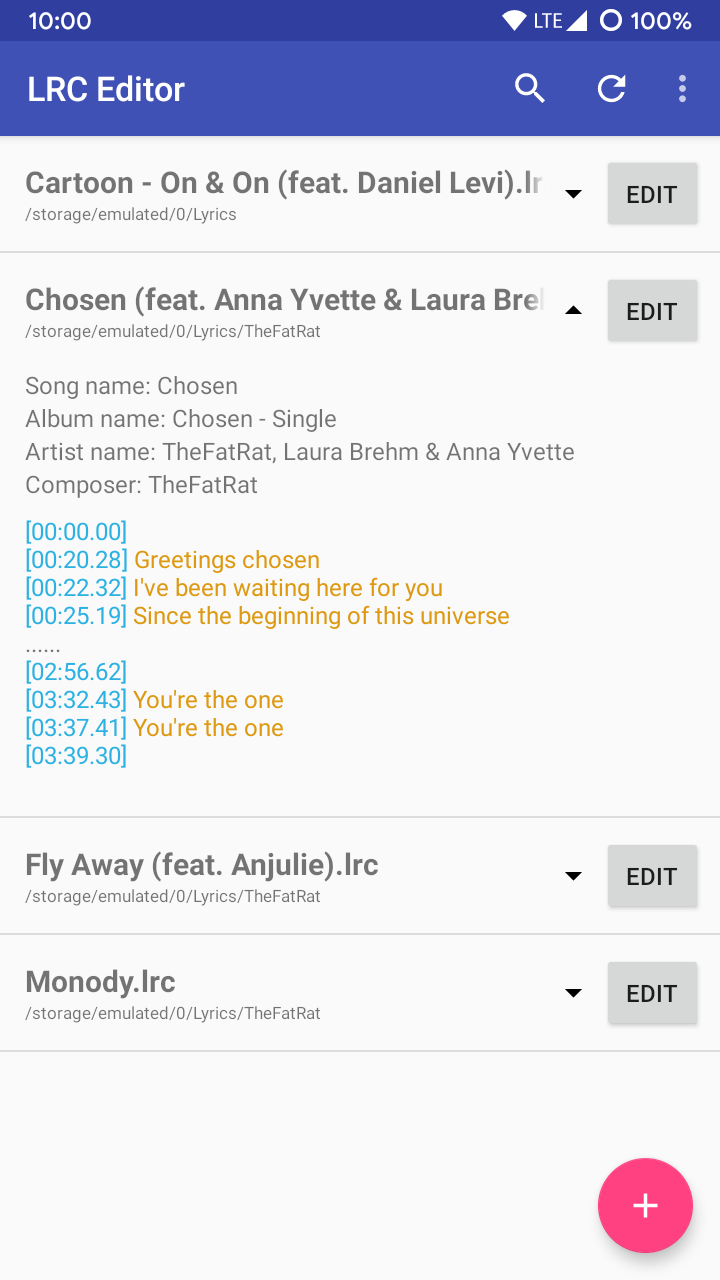
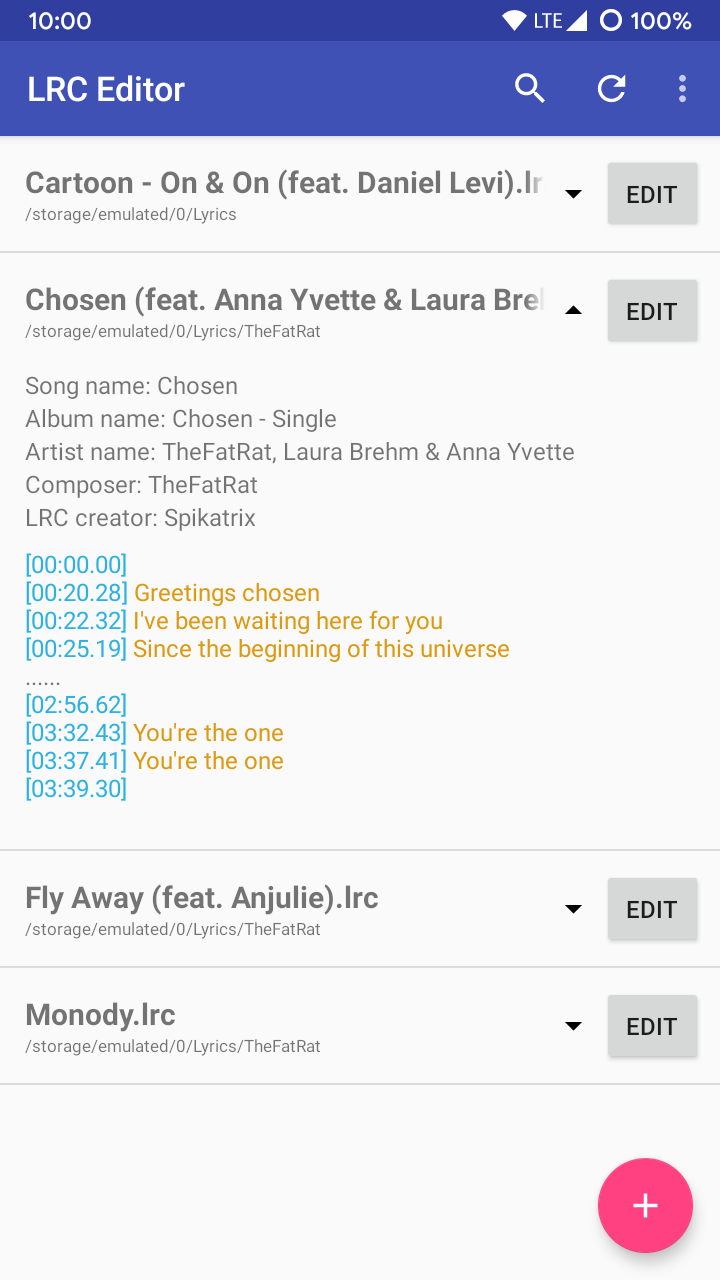
Version 3.2.4 (Timestamp step setting, LRC creator metadata, crash fix)

Changed region(s): [[0.0306, 0.375, 0.7028, 0.625], [0.0306, 0.6562, 0.5194, 0.8438], [0.7944, 0.6562, 0.9778, 0.8438]]

diff --git a/app/src/main/java/com/cg/lrceditor/SettingsActivity.java b/app/src/main/java/com/cg/lrceditor/SettingsActivity.java
@@ -164,6 +164,9 @@ public class SettingsActivity extends AppCompatActivity {
 				String.format(Locale.getDefault(), "%d ms", preferences.getInt(Constants.TIMESTAMP_STEP_AMOUNT_PREFERENCE, 100)));
 
 		ImageButton increase = view.findViewById(R.id.increase_button);
+		if (isDarkTheme) {
+			increase.setImageDrawable(getDrawable(R.drawable.ic_add_light));
+		}
 		increase.setOnClickListener(view1 -> {
 			String timestampStepVal = timestamp.getText().toString();
 			int value = Integer.parseInt(timestampStepVal.substring(0, timestampStepVal.length() - 3));
@@ -175,6 +178,9 @@ public class SettingsActivity extends AppCompatActivity {
 		});
 
 		ImageButton decrease = view.findViewById(R.id.decrease_button);
+		if (isDarkTheme) {
+			decrease.setImageDrawable(getDrawable(R.drawable.ic_minus_light));
+		}
 		decrease.setOnClickListener(view1 -> {
 			String timestampStepVal = timestamp.getText().toString();
 			int value = Integer.parseInt(timestampStepVal.substring(0, timestampStepVal.length() - 3));

diff --git a/README.md b/README.md
@@ -1,4 +1,4 @@
-# LRC Editor &nbsp; [![License: GPL v3](https://img.shields.io/badge/License-GPL%20v3-blue.svg)](https://www.gnu.org/licenses/gpl-3.0) ![Version: 3.2.3](https://d25lcipzij17d.cloudfront.net/badge.svg?id=gh&type=6&v=3.2.3)
+# LRC Editor &nbsp; [![License: GPL v3](https://img.shields.io/badge/License-GPL%20v3-blue.svg)](https://www.gnu.org/licenses/gpl-3.0) ![Version: 3.2.4](https://d25lcipzij17d.cloudfront.net/badge.svg?id=gh&type=6&v=3.2.3)
 
 <img src="https://i.stack.imgur.com/KSovE.png" alt="LRC Editor App Icon" align="left" style="margin: 10px 20px 10px 10px; border-radius: 15%; box-shadow: 0 6px 20px 2px black">
 
@@ -27,8 +27,7 @@ You can then use the LRC files in Karaoke applications, Music players etc that s
 
 ## Screenshots
 
-![](https://lh3.googleusercontent.com/R-6CVuGEe2q8FD60-aVjd87ZNIiHL0Kzl9AWqNN8k-uHoJFlAmHZHgW0EDiga3cwzZ3-=w720-h310-rw) &nbsp; &nbsp;
-![](https://lh3.googleusercontent.com/_gCKRLjlcvNC-DzbcE43aAYMSnWxFbIfQctuhm14RUcVnHlgfeko71QjaSp-UsY2sQ=w720-h310-rw)
+<img src="https://raw.githubusercontent.com/Spikatrix/LRC-Editor/master/fastlane/metadata/android/en-US/images/phoneScreenshots/1.png" height="300px" /> &nbsp; &nbsp; <img src="https://raw.githubusercontent.com/Spikatrix/LRC-Editor/master/fastlane/metadata/android/en-US/images/phoneScreenshots/3.png" height="300px" />
 
 More screenshots are available in the [Google Play Store page][play_store_page]
 
